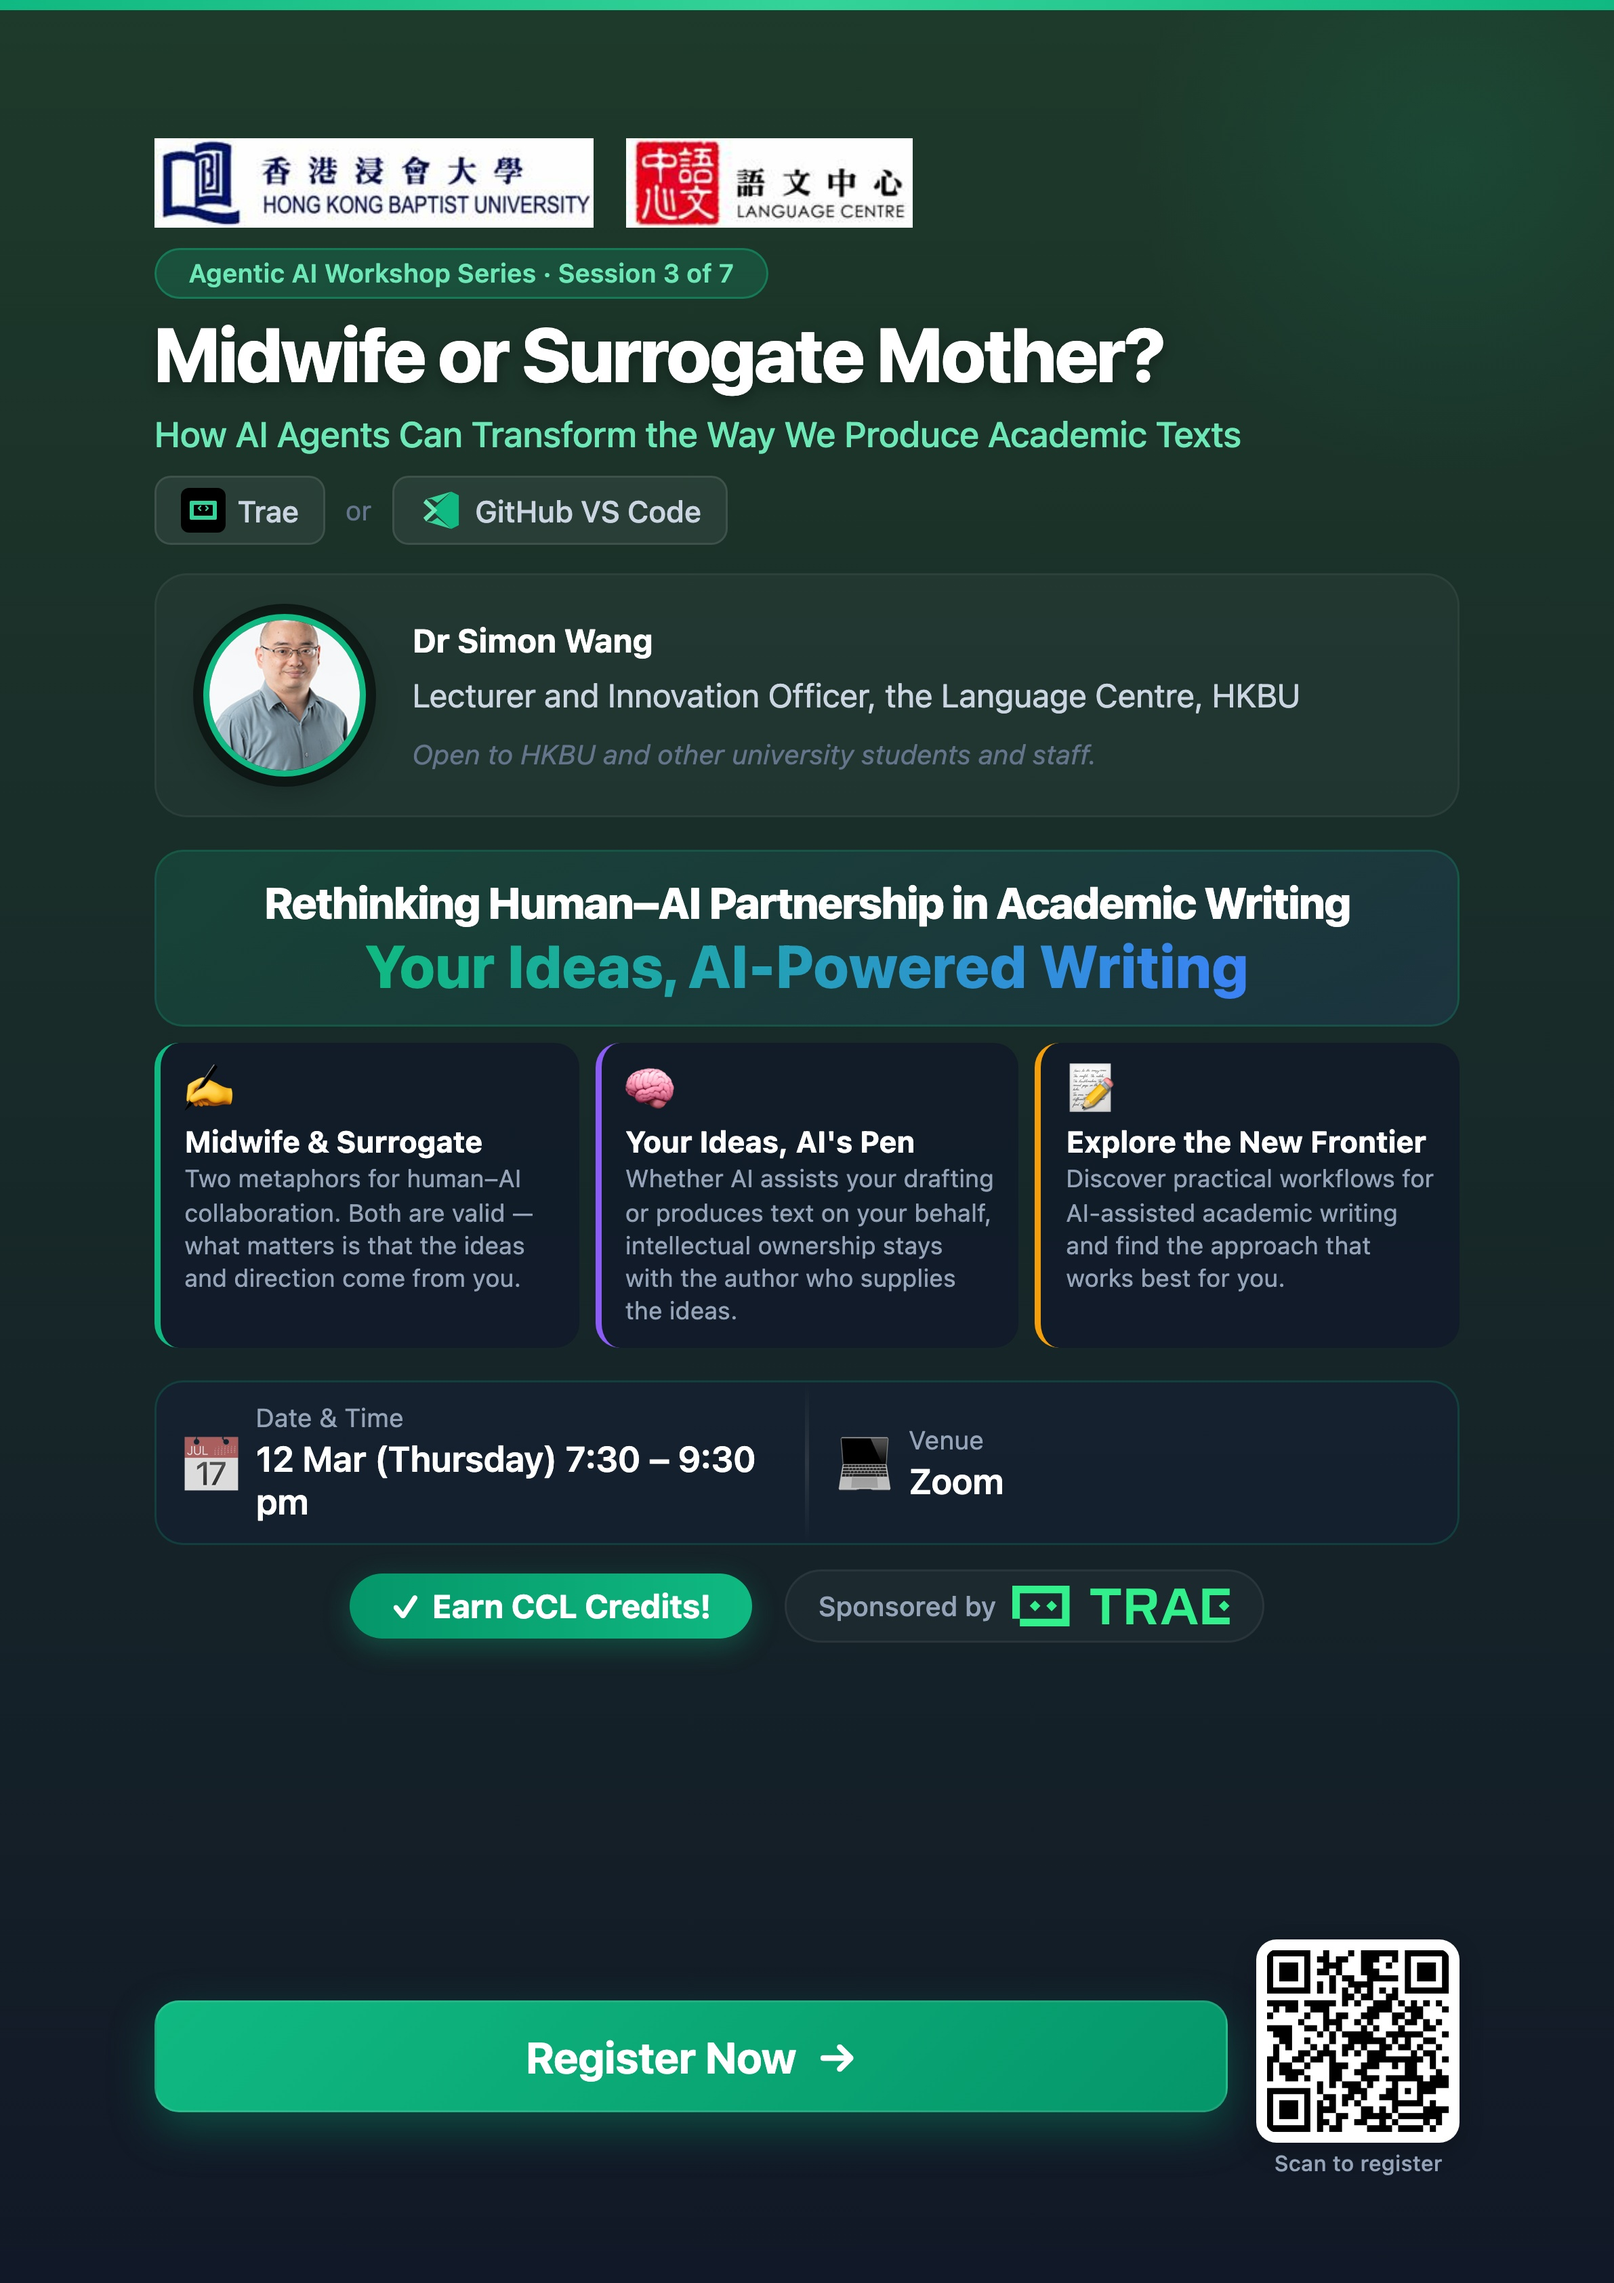
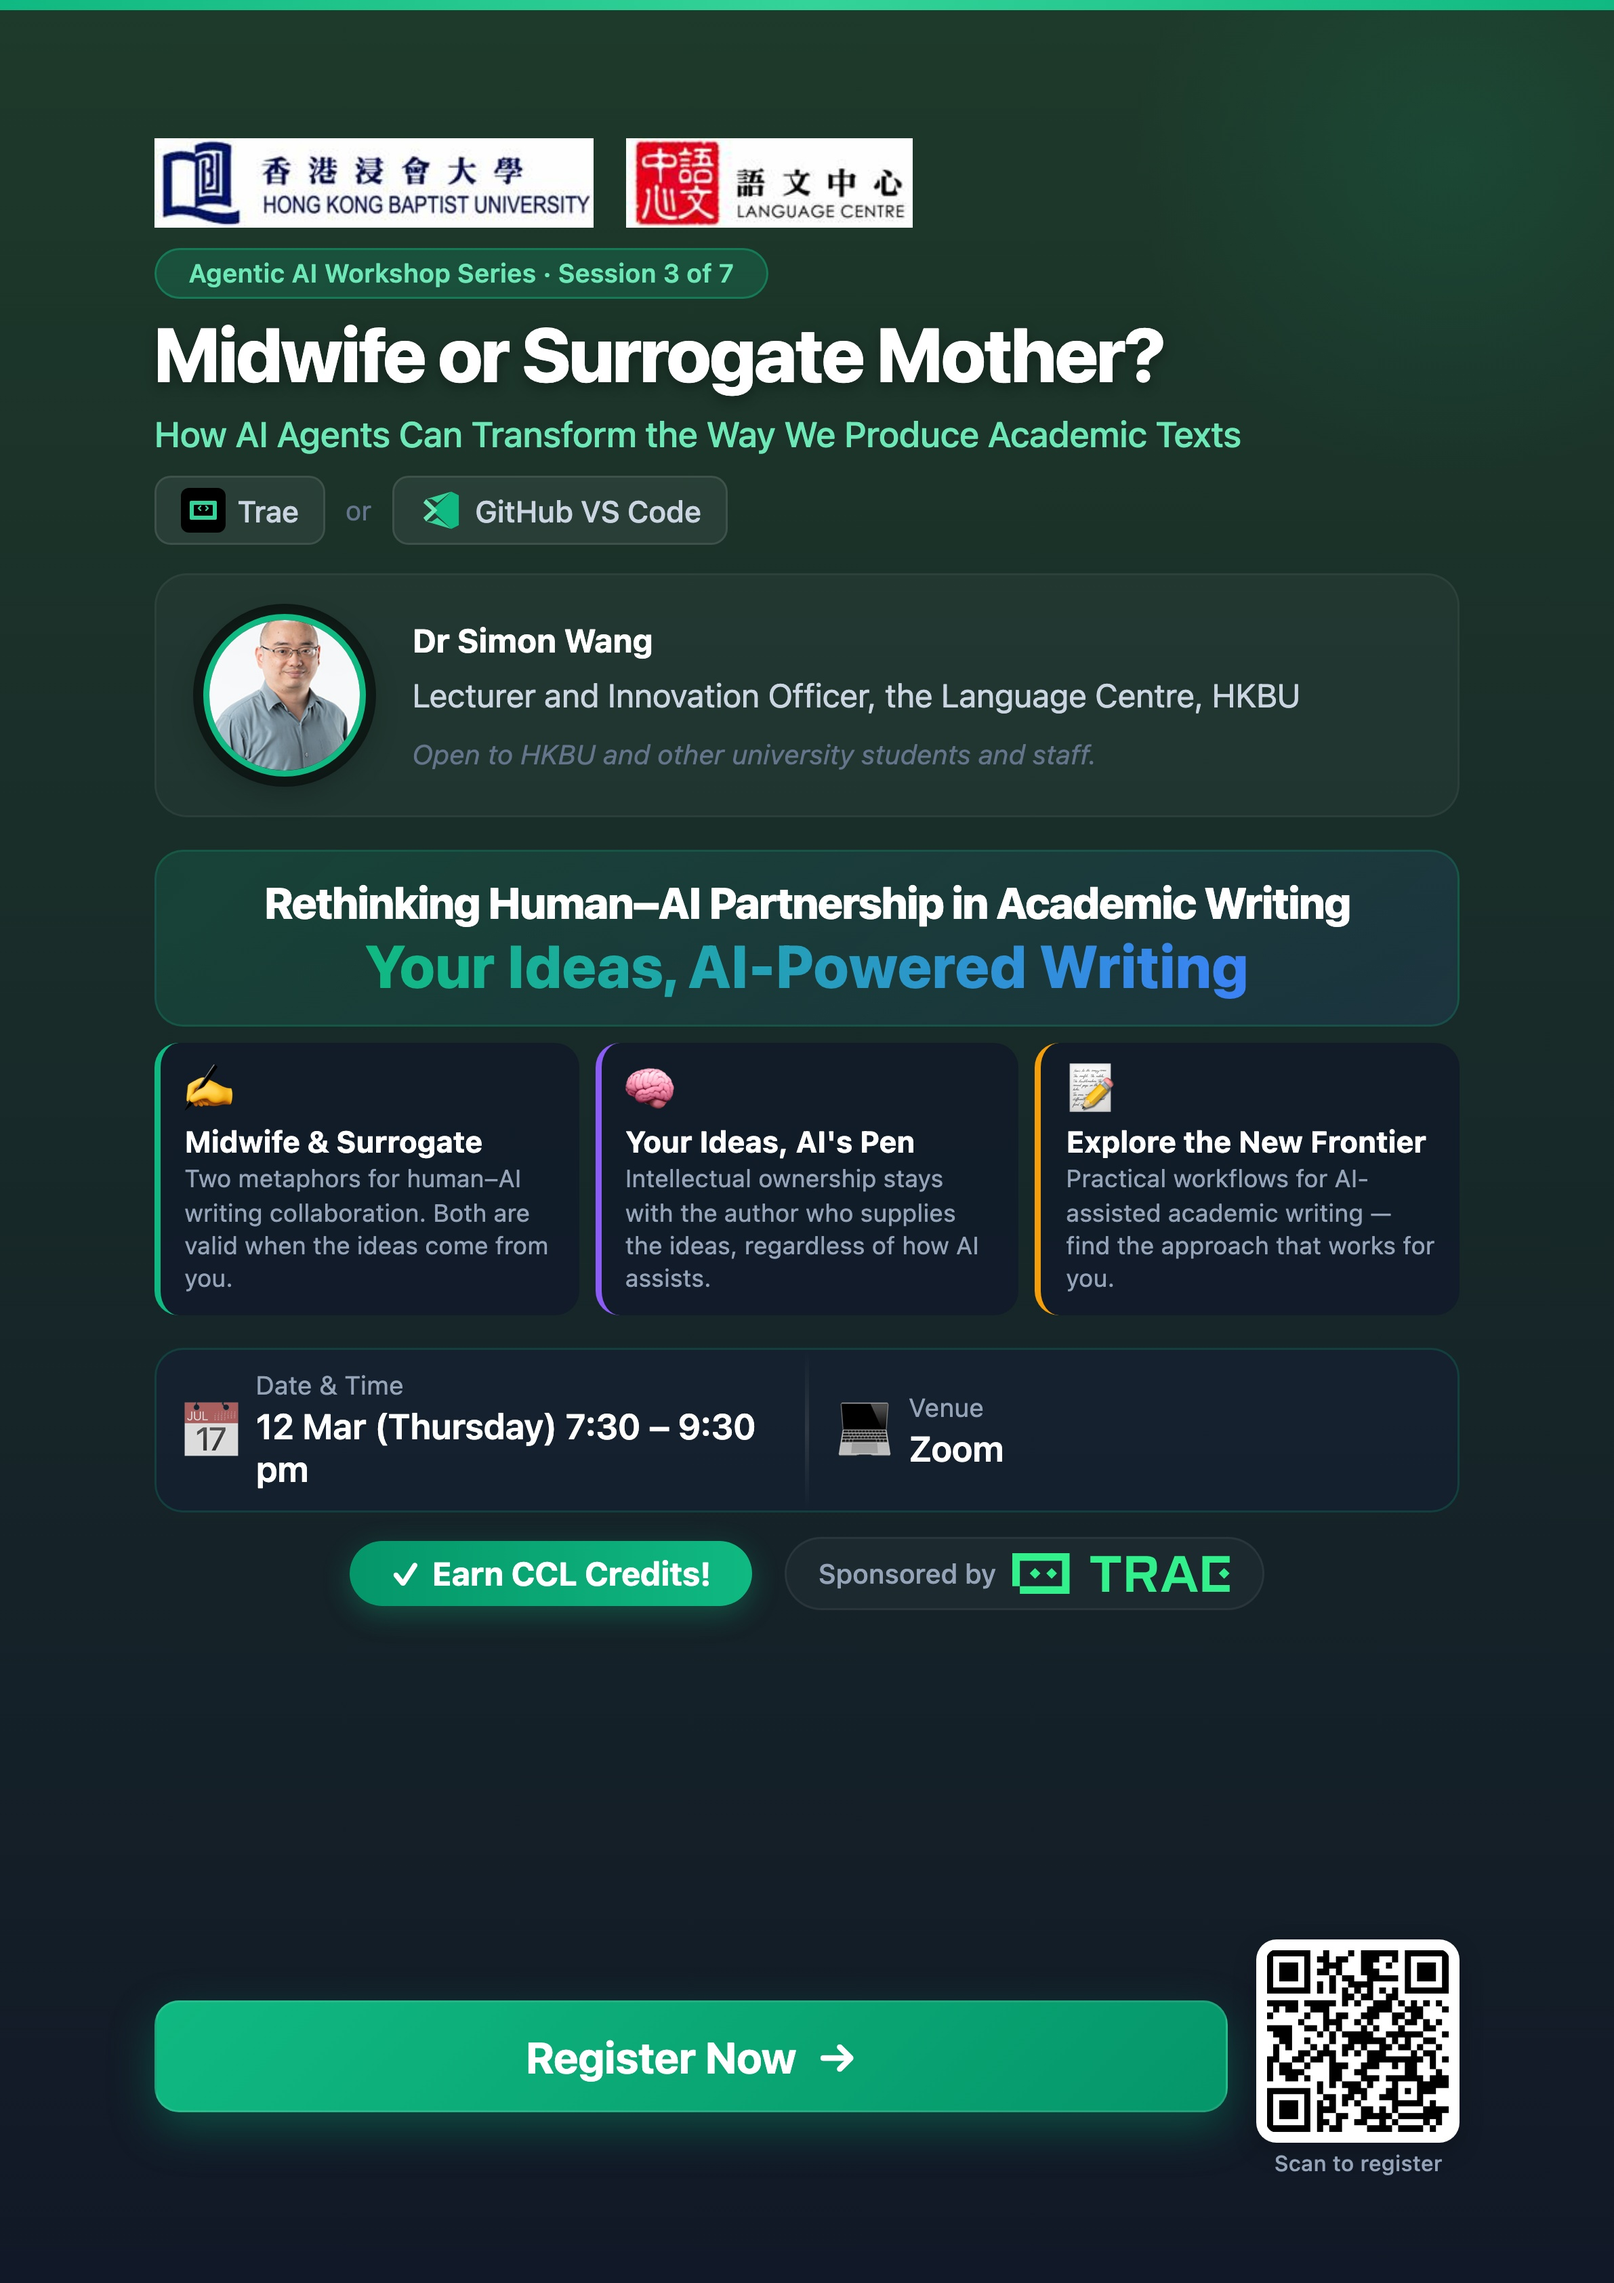
Trim 12 Mar poster highlight text to match 5 Mar density
Shortened highlight item descriptions to reduce crowding and
match the cleaner text density of the 5 Mar poster.

diff --git a/AmbassadorProgramme/workshop/12 Mar/poster12Mar.html b/AmbassadorProgramme/workshop/12 Mar/poster12Mar.html
@@ -241,21 +241,21 @@
           <span class="hi-icon">✍</span>
           <div>
             <h3>Midwife &amp; Surrogate</h3>
-            <p>Two metaphors for human–AI collaboration. Both are valid — what matters is that the ideas and direction come from you.</p>
+            <p>Two metaphors for human–AI writing collaboration. Both are valid when the ideas come from you.</p>
           </div>
         </div>
         <div class="highlight-item">
           <span class="hi-icon">🧠</span>
           <div>
             <h3>Your Ideas, AI's Pen</h3>
-            <p>Whether AI assists your drafting or produces text on your behalf, intellectual ownership stays with the author who supplies the ideas.</p>
+            <p>Intellectual ownership stays with the author who supplies the ideas, regardless of how AI assists.</p>
           </div>
         </div>
         <div class="highlight-item">
           <span class="hi-icon">📝</span>
           <div>
             <h3>Explore the New Frontier</h3>
-            <p>Discover practical workflows for AI-assisted academic writing and find the approach that works best for you.</p>
+            <p>Practical workflows for AI-assisted academic writing — find the approach that works for you.</p>
           </div>
         </div>
       </div>
